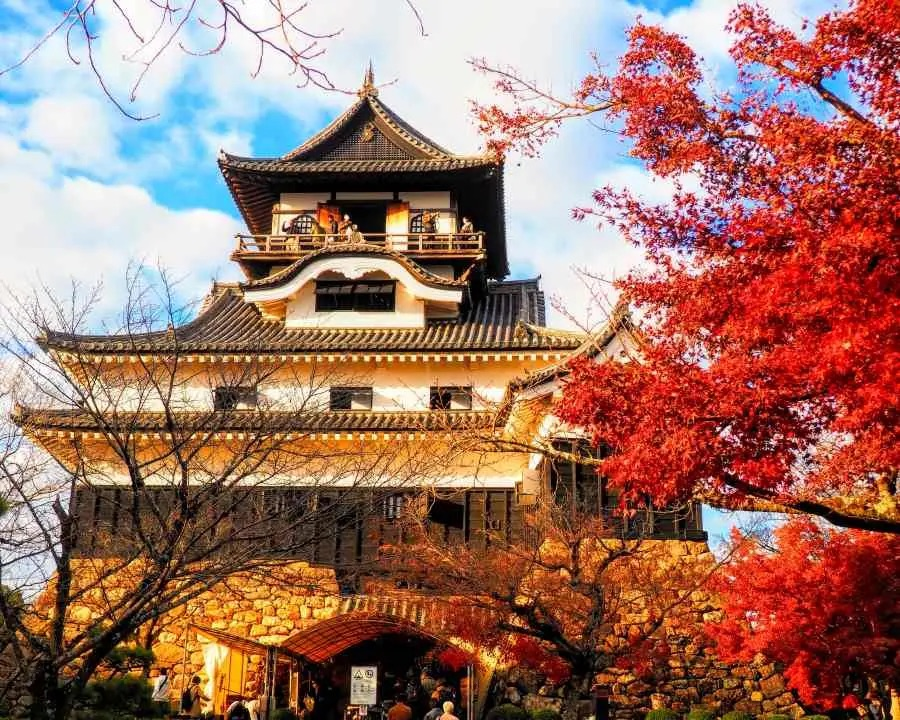
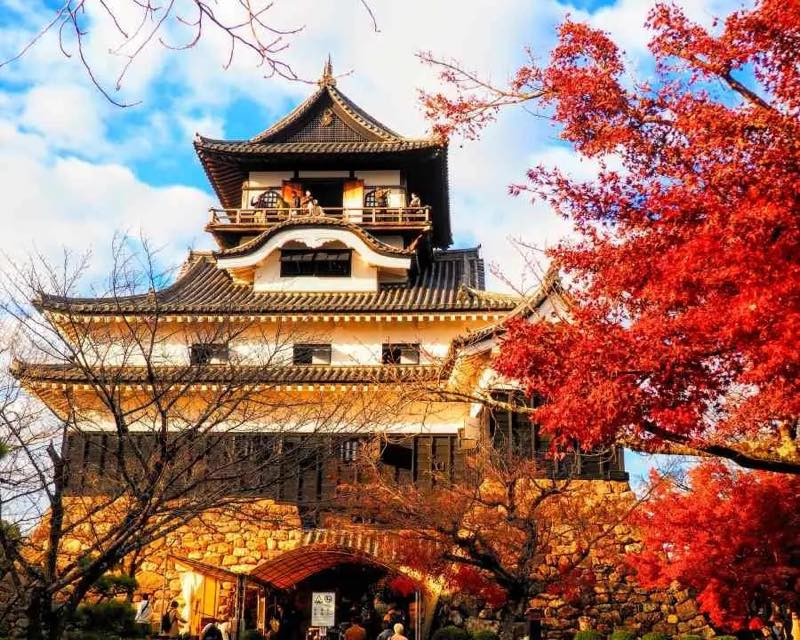
perf: 載入優化——字型整併、秋葉啟動畫面、Firebase preconnect、壓縮 day5 圖片
- 移除 index.css 的字型 @user（原本重複載入且卡住首次渲染），
  改由 index.html 一次載入 Noto Sans TC + Noto Serif TC，僅保留實際用到的字重
- 新增純 CSS 秋葉飄落啟動畫面，JS 載入前不再白屏
- 加 Firebase RTDB preconnect，資料連線與資源下載並行
- day5.jpg 900px/284K → 800px/130K，與其他天封面一致
- Bill Bear 文案改為記帳提醒（家人皆已入群）

diff --git a/index.html b/index.html
@@ -11,10 +11,44 @@
     <title>名古屋・高山 2026</title>
     <link rel="preconnect" href="https://fonts.googleapis.com" />
     <link rel="preconnect" href="https://fonts.gstatic.com" crossorigin />
-    <link href="https://fonts.googleapis.com/css2?family=Noto+Sans+TC:wght@400;500;600;700&display=swap" rel="stylesheet" />
+    <link rel="preconnect" href="https://nagoya-18a9b-default-rtdb.asia-southeast1.firebasedatabase.app" />
+    <link href="https://fonts.googleapis.com/css2?family=Noto+Sans+TC:wght@300;400;500;600;700&family=Noto+Serif+TC:wght@400;700&display=swap" rel="stylesheet" />
+    <style>
+      .splash{position:fixed;inset:0;background:radial-gradient(120% 40% at 80% -5%,rgba(111,129,114,.10),rgba(111,129,114,0) 55%),#E9E5DE;display:flex;align-items:center;justify-content:center;overflow:hidden}
+      .splash-title{text-align:center;animation:splash-in 1s ease-out both .2s}
+      .splash-kicker{font-size:.55rem;letter-spacing:.3em;color:#A8A296;font-weight:700;margin-bottom:.5rem}
+      .splash-name{font-family:'Noto Serif TC',serif;font-size:1.3rem;font-weight:700;letter-spacing:.15em;color:#43473F}
+      .splash-date{font-size:.6rem;letter-spacing:.2em;color:#918A7C;margin-top:.6rem}
+      .leaf{position:absolute;top:-12%;font-size:1.4rem;opacity:.85;animation:leaf-fall linear infinite}
+      .l1{left:16%;animation-duration:5s}
+      .l2{left:55%;font-size:1.05rem;animation-duration:6.5s;animation-delay:1.2s}
+      .l3{left:80%;animation-duration:5.6s;animation-delay:.5s}
+      .l4{left:36%;font-size:1rem;animation-duration:7s;animation-delay:2.2s}
+      @keyframes leaf-fall{
+        0%{transform:translateY(0) translateX(0) rotate(0)}
+        25%{transform:translateY(28vh) translateX(16px) rotate(70deg)}
+        50%{transform:translateY(56vh) translateX(-12px) rotate(140deg)}
+        75%{transform:translateY(84vh) translateX(14px) rotate(220deg)}
+        100%{transform:translateY(115vh) translateX(-8px) rotate(300deg)}
+      }
+      @keyframes splash-in{from{opacity:0;transform:translateY(8px)}to{opacity:1;transform:none}}
+      @media (prefers-reduced-motion:reduce){.leaf{display:none}.splash-title{animation:none}}
+    </style>
   </head>
   <body>
-    <div id="root"></div>
+    <div id="root">
+      <div class="splash">
+        <span class="leaf l1">🍂</span>
+        <span class="leaf l2">🍁</span>
+        <span class="leaf l3">🍂</span>
+        <span class="leaf l4">🍁</span>
+        <div class="splash-title">
+          <div class="splash-kicker">CHUBU · JAPAN</div>
+          <div class="splash-name">🏔️ 10月中部旅行</div>
+          <div class="splash-date">2026/10/01–10/06 · 七人同行</div>
+        </div>
+      </div>
+    </div>
     <script type="module" src="/src/main.jsx"></script>
   </body>
 </html>

diff --git a/src/components/Tools/index.jsx b/src/components/Tools/index.jsx
@@ -101,7 +101,7 @@ export default function Tools() {
             className="w-14 h-14 rounded-2xl shadow-sm shrink-0 border border-[#D6D0C4]/60"
           />
           <p className="text-[0.75rem] text-[#918A7C] leading-relaxed flex-1">
-            旅途中的代墊、共同開銷都記在 <span className="font-bold text-[#4A4A43]">Bill Bear</span>，回台灣一次結清。
+            旅途中的代墊、共同開銷都記在 <span className="font-bold text-[#4A4A43]">Bill Bear</span> 群組，回台灣一次結清。
             <span className="font-bold text-[#B09455]">付錢當下就記</span>，不要靠回憶！
           </p>
         </div>
@@ -111,9 +111,8 @@ export default function Tools() {
           rel="noopener noreferrer"
           className="block text-center bg-sage text-oat font-bold tracking-widest text-xs rounded-xl py-3 shadow-[0_4px_10px_-4px_rgba(111,129,114,0.6)] active:scale-95 transition-transform"
         >
-          加入我們的 Bill Bear 群組 →
+          打開 Bill Bear 記帳去 →
         </a>
-        <p className="text-[0.62rem] text-gray-400 text-center mt-2">還沒裝 App 的人點連結會先導去下載</p>
       </section>
 
       {/* Emergency */}

diff --git a/src/index.css b/src/index.css
@@ -1,4 +1,4 @@
-@import url('https://fonts.googleapis.com/css2?family=Noto+Serif+TC:wght@400;500;600;700&family=Noto+Sans+TC:wght@300;400;500;700&display=swap');
+/* 字型改由 index.html 一次載入（Noto Sans TC + Noto Serif TC），避免 @import 卡住渲染 */
 @import "tailwindcss";
 
 @theme {